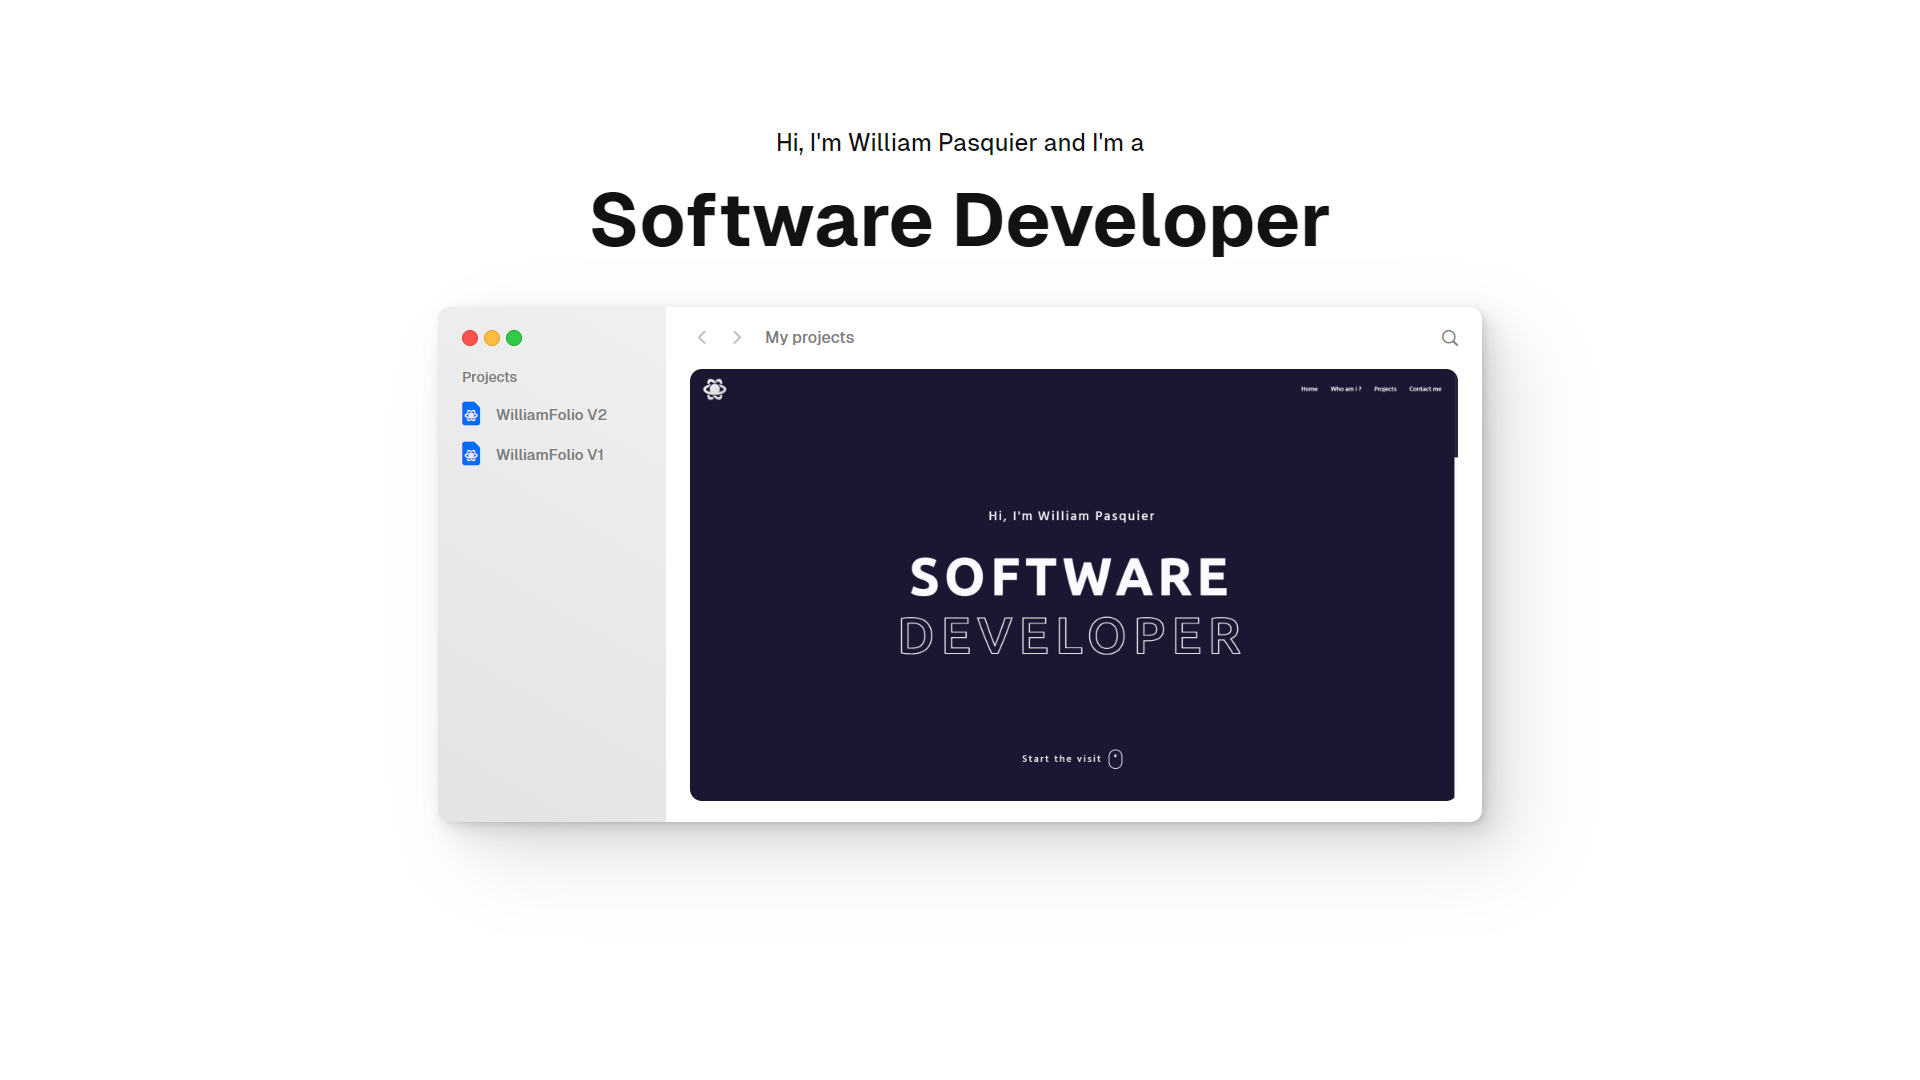
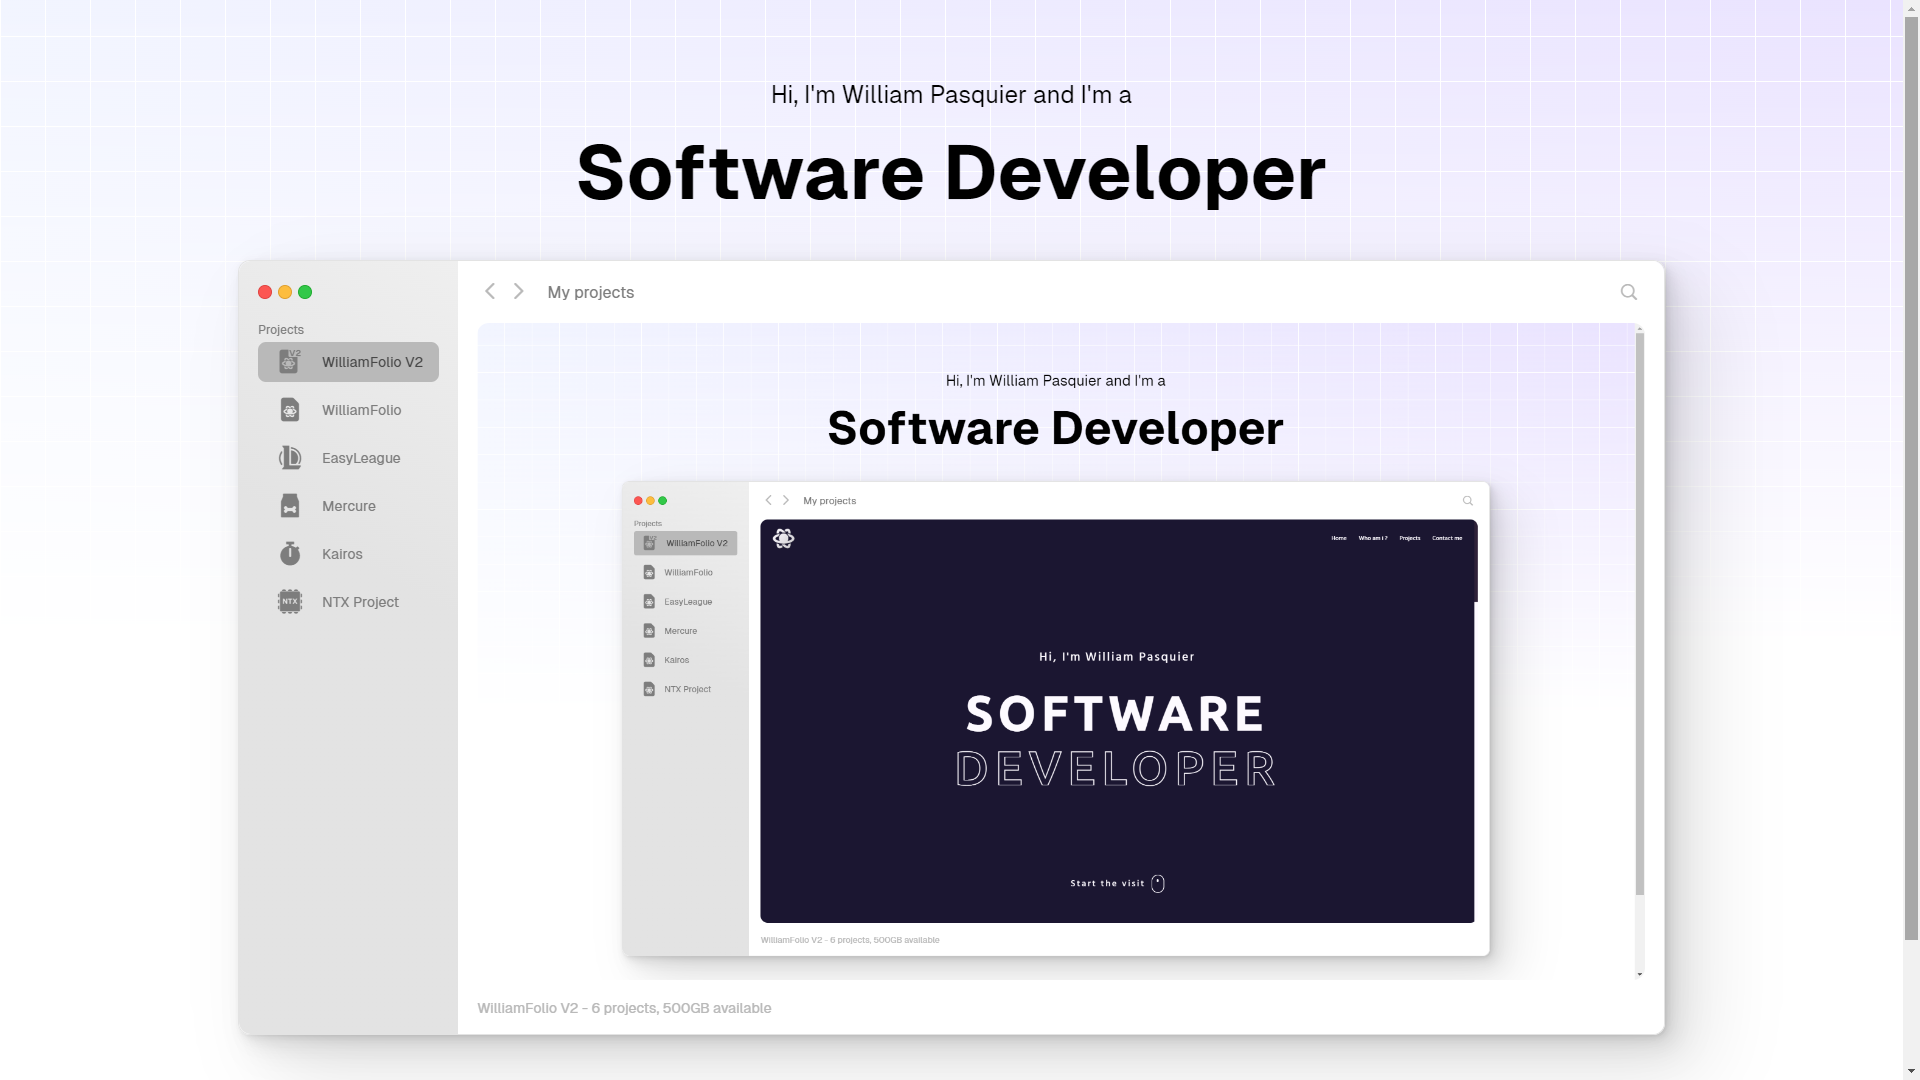
[feature] Make project nav change hero image

diff --git a/js/components/finder.js b/js/components/finder.js
@@ -1,25 +1,107 @@
 "use strict";
-const supportsAnchorPos = ("anchorName" in document.documentElement.style);
+
+var thumbnailProjects = undefined;
 
 const finderEvents = () => {
-    const nav = document.querySelector('[data-magnetic]');
-    const navItems = nav.querySelectorAll('.finder__nav-project');
+  getData();
 
-    navSelection(navItems);
-}
+  // navSelection();
+  rotationSelection();
+};
 
+const getData = () => {
+  readJSON("/resources/json/hero.json", createHeroFinder);
+};
+
+const createHeroFinder = (data) => {
+  thumbnailProjects = data;
+
+  const heroFinder = document.querySelector("#hero-finder");
+  let thumbnailNavButtons = "";
+
+  if (thumbnailProjects.length == 0) {
+    console.error("No projects found in hero.json");
+  }
+
+  // Construct finder navigation
+  thumbnailProjects.forEach((thumbnail, i) => {
+    console.log(thumbnail);
+    let dataActive = "false";
+
+    dataActive = i == 0 ? "true" : "false";
+
+    thumbnailNavButtons += `<li>
+        <button class="finder__nav-project" onclick="getThumbnails(${i})" data-active="${dataActive}">
+          <i class="finder__nav-project-icon wf-icon-${thumbnail.icon}"></i>
+          <span class="finder__nav-project-title">${thumbnail.title}</span>
+        </button>
+      </li>`;
+  });
+
+  heroFinder.querySelector(".finder__nav-projects").innerHTML +=
+    thumbnailNavButtons;
+
+  getThumbnails(0);
+};
+
+const getThumbnails = (id) => {
+  const thumbnail = thumbnailProjects[id];
+  const heroFinder = document.querySelector("#hero-finder");
+  var img = "";
+  
+  if (thumbnail.thumbnailMobile) {
+    img += `<source media="(max-width: 768px)" srcset=".\\resources\\images\\thumbnails\\${thumbnail.thumbnailMobile}"/>`;
+  }
+
+  img += `<img class="project-thumbnail" loading="lazy" src=".\\resources\\images\\thumbnails\\${thumbnail.thumbnail}" alt="${thumbnail.alt}"/>`;
+
+  const numbers = `<span class="finder__projects-numbers">${thumbnail.title} - ${thumbnailProjects.length} ${thumbnailProjects.length == 1 ? "project" : "projects"}, 500GB available</span>`;
+
+  heroFinder.querySelector(".finder__container-content").innerHTML = `<picture>${img}</picture>`;
+  heroFinder.querySelector(".finder__container-footer").innerHTML = numbers;
+};
 
 const navSelection = (navItems) => {
-    for (let i = 0; i < navItems.length; i++) {
-        const navItem = navItems[i]
-        navItem.addEventListener('click', () => {
-            const newActive = navItem.getAttribute('data-active');
-            const currentActive = document.querySelector('.finder__nav-project[data-active="true"]');
+  if (navItems.length <= 0) {
+    console.error("No project item found");
+    return;
+  }
 
-            if (newActive == "false") {
-                navItem.setAttribute('data-active', true);
-                currentActive.setAttribute('data-active', false);
-            }
-        })
-    }
-}
+  for (let i = 0; i < navItems.length; i++) {
+    const navItem = navItems[i];
+    navItem.addEventListener("click", () => {
+      const newActive = navItem.getAttribute("data-active");
+      const currentActive = document.querySelector(
+        '.finder__nav-project[data-active="true"]'
+      );
+
+      if (newActive == "false") {
+        navItem.setAttribute("data-active", true);
+        currentActive.setAttribute("data-active", false);
+      }
+    });
+  }
+};
+
+const rotationSelection = () => {
+  const nav = document.querySelector('[data-magnetic]');
+  const navItems = nav.querySelectorAll('.finder__nav-project');
+
+  setInterval(() => {
+      for (let i = 0; i < navItems.length; i++) {
+          if (i + 1 == navItems.length) {
+              navItems[i].setAttribute('data-active', 'false');
+              navItems[0].setAttribute('data-active', 'true');
+              getThumbnails(0);
+              break;
+          }
+
+          if (navItems[i].getAttribute('data-active') == 'true') {
+              navItems[i].setAttribute('data-active', 'false');
+              navItems[i + 1].setAttribute('data-active', 'true');
+              getThumbnails(i + 1);
+              break;
+          }
+      }
+  }, 1000);
+};

diff --git a/index.html b/index.html
@@ -9,6 +9,7 @@
 
         <!-- Import JavaScript files / libraries -->
         <script type="text/javascript" src="js/script.js"></script>
+        <script type="text/javascript" src="js/utils.js"></script>
         <script type="text/javascript" src="js/components/finder.js"></script>
 
         <!-- Import CSS files -->
@@ -27,7 +28,7 @@
                     <h1 class="hero__title bold">Software Developer</h1>
                 </center>
                 <div id="project-hero" class="hero__container">
-                    <div class="finder shadow">
+                    <div id="hero-finder" class="finder shadow">
                         <aside class="finder__nav">
                             <div class="finder__nav-header">
                                 <div class="finder__nav-btn finder__nav-close"></div>
@@ -37,7 +38,7 @@
                             <h3 class="finder__nav-title">Projects</h3>
                             <nav class="finder__nav-content" data-magnetic>
                                 <ol class="finder__nav-projects">
-                                    <li>
+                                    <!-- <li>
                                         <button class="finder__nav-project" data-active="true">
                                             <i class="finder__nav-project-icon wf-icon-williamfolio_v2"></i>
                                             <span class="finder__nav-project-title">WilliamFolio V2</span>
@@ -72,7 +73,7 @@
                                             <i class="finder__nav-project-icon wf-icon-williamfolio"></i>
                                             <span class="finder__nav-project-title">NTX Project</span>
                                         </button>
-                                    </li>
+                                    </li> -->
                                 </ol>
                             </nav>
                         </aside>
@@ -90,13 +91,13 @@
                                 </div>
                             </div>
                             <div class="finder__container-content">
-                                <picture>
-                                    <source media="(max-width: 768px)" srcset=".\resources\images\thumbnails\williamfolio_v1\williamfolio_v1_mobile.png"/>
-                                    <img class="project-thumbnail" src=".\resources\images\thumbnails\williamfolio_v1\williamfolio_v1.png" alt="William Folio portfolio v1 hero section"/>
-                                </picture>
+                                <!-- <picture>
+                                    <source media="(max-width: 768px)" srcset=".\resources\images\thumbnails\williamfolio_v2\williamfolio_v2_mobile.png"/>
+                                    <img class="project-thumbnail" src=".\resources\images\thumbnails\williamfolio_v2\williamfolio_v2.png" alt="William Folio portfolio v1 hero section"/>
+                                </picture> -->
                             </div>
                             <div class="finder__container-footer">
-                                <span class="finder__projects-numbers">WilliamFolio V2 - 6 projects, 500GB available</span>
+                                <!-- <span class="finder__projects-numbers">WilliamFolio V2 - 6 projects, 500GB available</span> -->
                             </div>
                         </div>
                     </div>

diff --git a/css/components/finder.css b/css/components/finder.css
@@ -123,7 +123,7 @@
     gap: clamp(calc(var(--base-spacer) / 2), 1vw, var(--base-spacer));
     padding: min(calc(var(--base-spacer) / 2), 1vw) min(var(--base-spacer), 1vw);
     border: unset;
-    border-radius: 4px;
+    border-radius: 8px;
     color: var(--gray);
     font-size: clamp(11px, 1vw, 14px);
     background: unset;
@@ -153,6 +153,7 @@
 } */
 
 .finder__nav-project-icon {
+    width: 2rem;
     font-size: clamp(22px, 2vw, var(--subtitle-font));
     color: var(--gray);
 }

diff --git a/js/utils.js b/js/utils.js
@@ -1,0 +1,16 @@
+"use strict";
+
+const readJSON = (JSONUrl, callback) => {
+    let xhr = new XMLHttpRequest();
+    xhr.open('GET', JSONUrl, true);
+
+    xhr.onreadystatechange = function(data) {
+        if (xhr.readyState == 4 && xhr.status == "200") {
+            callback(JSON.parse(xhr.responseText));
+        }
+    }
+
+    xhr.send();
+}
+
+const isHovered = e => e.parentElement.querySelector(':hover') === e;
